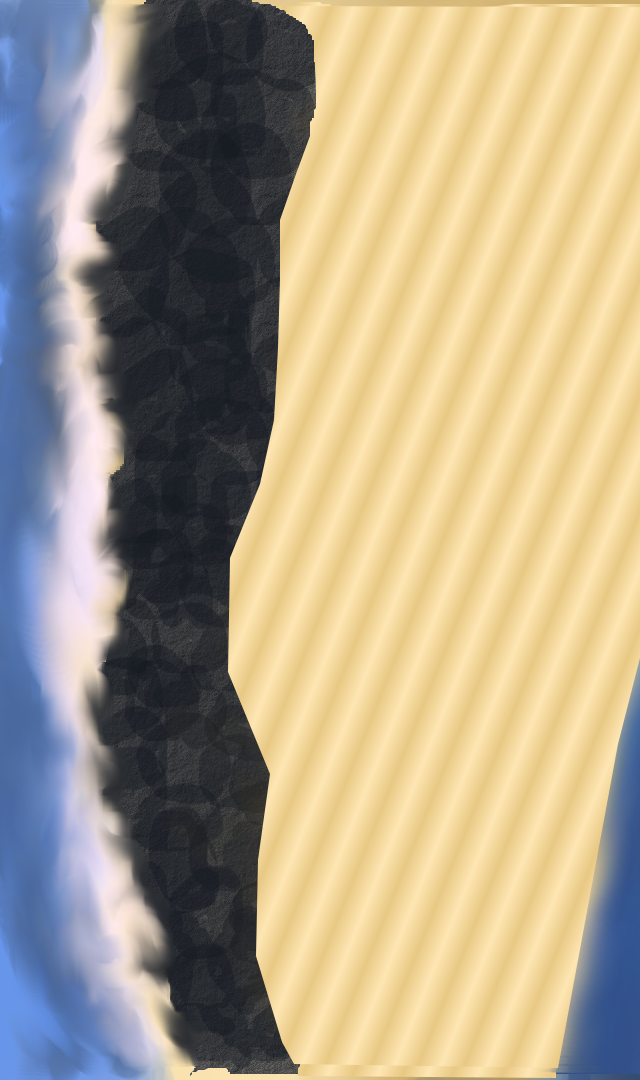
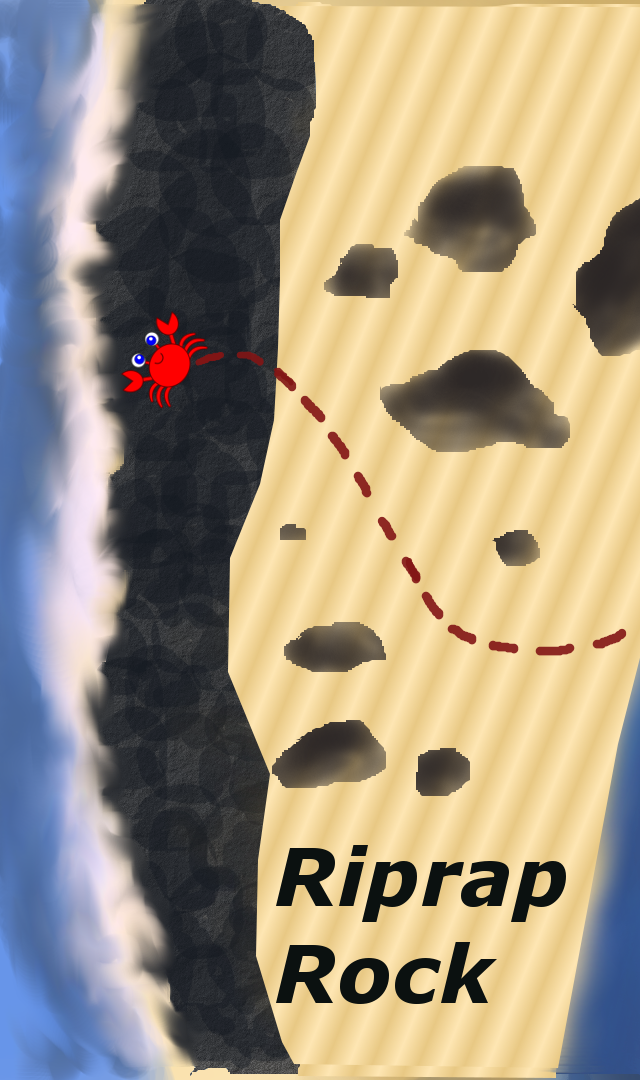
Map - Map   Map- Map!!
Loaded up with all kinds of stuff like things and knick knacks too! and
opening screens added for 3.

diff --git a/src/OverallGame/gameWindow.java b/src/OverallGame/gameWindow.java
@@ -239,9 +239,9 @@ public class gameWindow implements Serializable{
 		}
 		else {
 			try	{
-				Image	img	=	ImageIO.read(new File("images/game3background.png")).getScaledInstance(OverallGame.frameWidth, OverallGame.frameHeight, 1);
-				Image	img2=	ImageIO.read(new File("images/ocean_background.jpg")).getScaledInstance(getFrame().getWidth(), getFrame().getHeight(), 1);
-				Image	img3=	ImageIO.read(new File("images/game3background.png")).getScaledInstance(getFrame().getWidth(), getFrame().getHeight(), 1);
+				Image	img	=	ImageIO.read(new File("images/g3Opening1.png")).getScaledInstance(OverallGame.frameWidth, OverallGame.frameHeight, 1);
+				Image	img2=	ImageIO.read(new File("images/g3Opening2.png")).getScaledInstance(OverallGame.frameWidth, OverallGame.frameHeight, 1);
+				Image	img3=	ImageIO.read(new File("images/g3Opening3.png")).getScaledInstance(OverallGame.frameWidth, OverallGame.frameHeight, 1);
 				screens.add(img);
 				screens.add(img2);
 				screens.add(img3);
